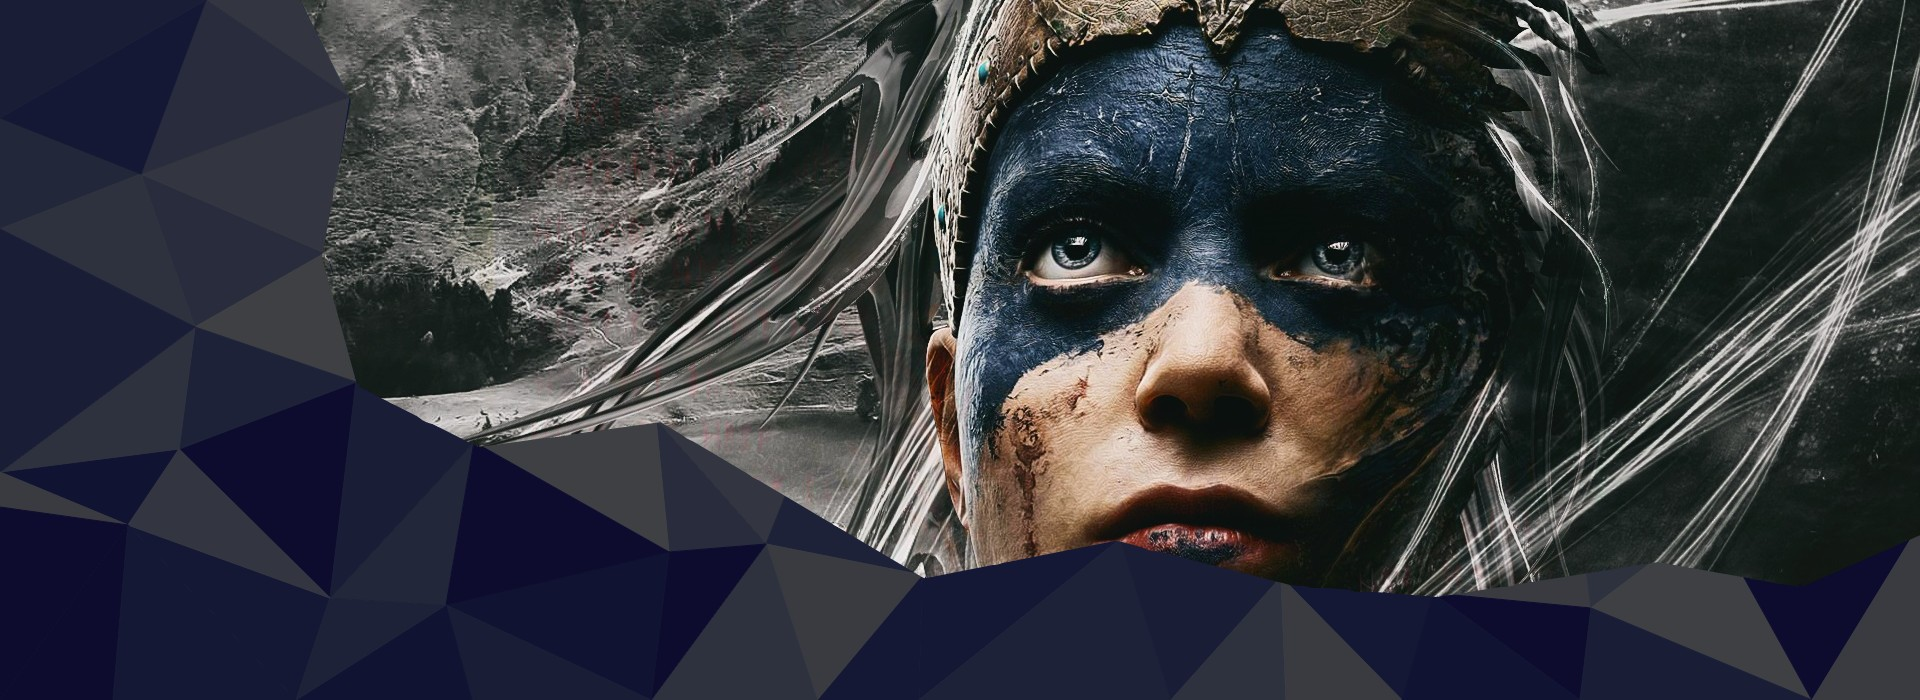
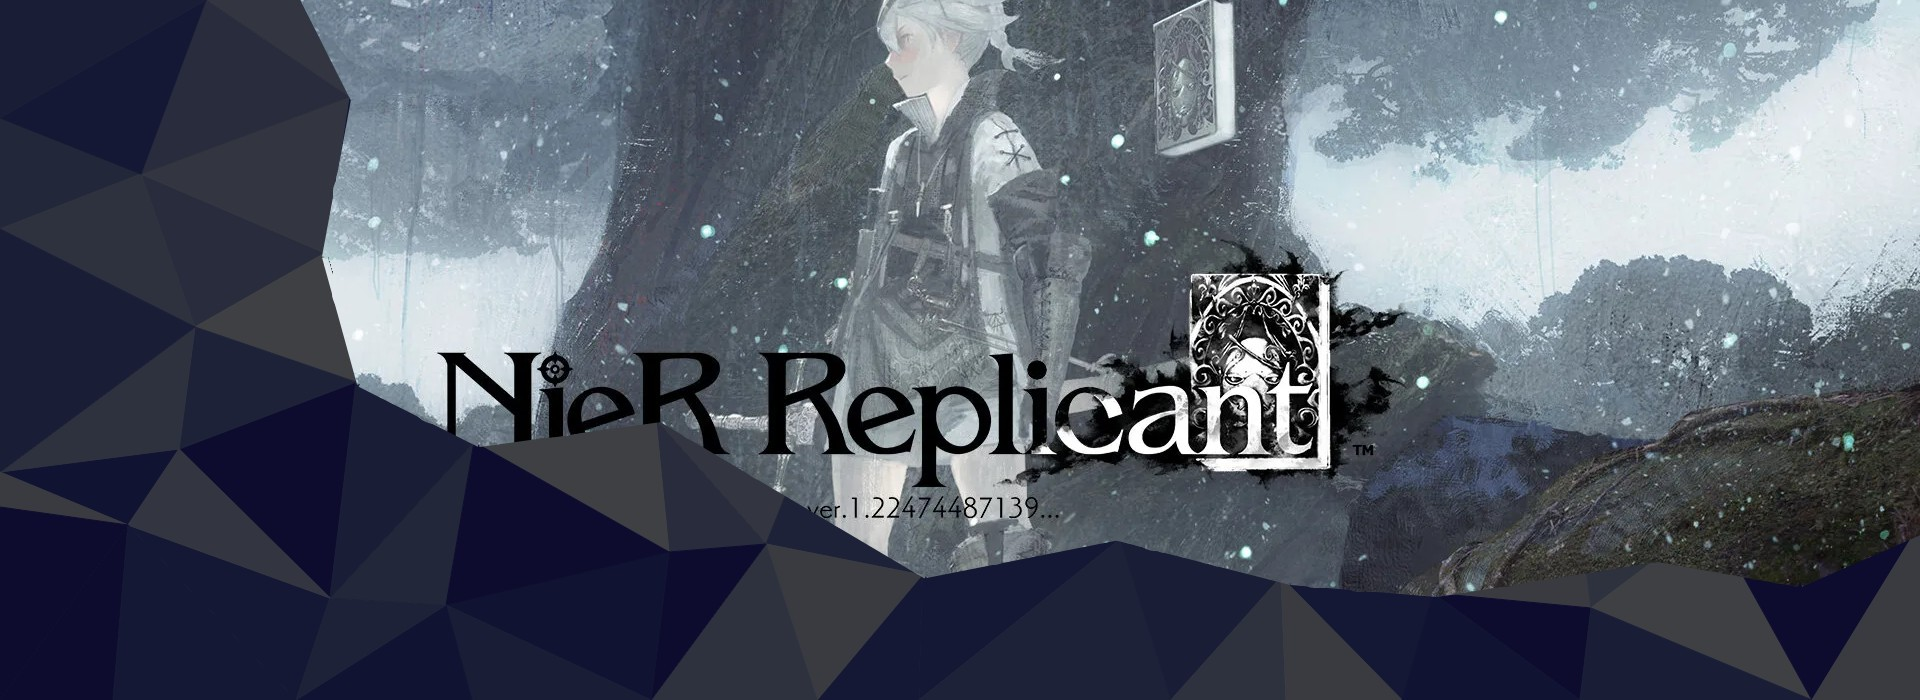
actualizacion 28/4

diff --git a/index.html b/index.html
@@ -61,14 +61,14 @@
                         <div class="carousel-caption d-md-block">
                             <h3 class="text-tipo2">Epic Games</h3>
                             <p class="text-tipo2">Descarga tu juego gratis de esta semana</p>
-                            <a href="https://store.epicgames.com/es-MX/p/amnesia-rebirth" target="_blank"><button class="boton">Consiguelo</button></a>
+                            <a href="https://store.epicgames.com/es-MX/p/just-die-already" target="_blank"><button class="boton">Consiguelo</button></a>
                         </div>
                     </div>
                     <div class="carousel-item mislider">
                         <img src="multimedia/images/slider/slider1.jpg" class="d-block w-100" alt="">
                         <div class="carousel-caption d-md-block">
-                            <h3 class="text-tipo2">Hellblade Senua's Sacrifice</h3>
-                            <p class="text-tipo2">Nuevos videos: Senua en su locura</p>
+                            <h3 class="text-tipo2">NieR Replicant V.122474487139</h3>
+                            <p class="text-tipo2">Nuevos videos: Derrotando jefes finales</p>
                             <a href="pages/guias.html"><button class="boton">Ver videos</button></a>
                         </div>
                     </div>          
@@ -92,8 +92,8 @@
                         <img src="multimedia/images/slider/slider5.jpg" class="d-block w-100" alt="imagen carrusel">
                         <div class="carousel-caption d-md-block">
                             <h3 class="text-tipo2">Recomendacion</h3>
-                            <p class="text-tipo2">The witcher 3: Wild hunt<br>80% off hasta el 2/5</p>
-                            <a href="https://store.steampowered.com/sub/124923/" target="_blank"><button class="boton">Compralo</button></a>
+                            <p class="text-tipo2">Sekiro : Shadow die twice<br>50% off hasta el 9/5</p>
+                            <a href="https://store.steampowered.com/app/814380/Sekiro_Shadows_Die_Twice__GOTY_Edition/" target="_blank"><button class="boton">Compralo</button></a>
                         </div>
                     </div>
                 </div>
@@ -113,31 +113,31 @@
             <h2 class="sub_title text-tipo1">Ultimas noticias</h2>
             <div class="info_1 fondo">
                 <div>                
-                    <h3 class="texto_h3 titulo_info1">Moto GP 22</h3>
-                    <p class="texto_p parrafo_info1">Este 21 de abril se lanza a la venta el que probablemente sea el mejor juego de conduccion de motos. Moto GP 22 se ha enfocado demasiado en el apartado grafico mostrando a los jugadores el mayor grado de realizmo posible. <br> Aqui te dejamos su trailer</p>
+                    <h3 class="texto_h3 titulo_info1">Valorant</h3>
+                    <p class="texto_p parrafo_info1">La nueva agente de VALORANT controla las pesadillas para poder localizar y dañar a los enemigos. Fade tiene como habilidades especiales: Tormento, Apresar, Acechador y Ocaso, todas ellas destinadas a localizar a tu enemigo y causarle declive durante unos instantes. Es en ese momento cuando tú y tu equipo tenéis que coordinaros para atacar a los objetivos</p>
                 </div> 
                 <div> 
-                    <iframe width="560" height="315" src="https://www.youtube.com/embed/kkami8prCjI" title="YouTube video player" frameborder="0" allow="accelerometer; autoplay; clipboard-write; encrypted-media; gyroscope; picture-in-picture" allowfullscreen></iframe>
+                    <iframe width="560" height="315" src="https://www.youtube.com/embed/L7z0UrOgGwY" title="YouTube video player" frameborder="0" allow="accelerometer; autoplay; clipboard-write; encrypted-media; gyroscope; picture-in-picture" allowfullscreen></iframe>
                 </div> 
             </div>
 
             <div class="info_2 fondo">
                 <div class="video_2">
-                    <iframe width="560" height="315" src="https://www.youtube.com/embed/RjwcbF_ohoE" title="YouTube video player" frameborder="0" allow="accelerometer; autoplay; clipboard-write; encrypted-media; gyroscope; picture-in-picture" allowfullscreen></iframe>
+                    <iframe width="560" height="315" src="https://www.youtube.com/embed/-VkO8Vlsf5M" title="YouTube video player" frameborder="0" allow="accelerometer; autoplay; clipboard-write; encrypted-media; gyroscope; picture-in-picture" allowfullscreen></iframe>
                 </div>
                 <div>
-                    <h3 class="texto_h3 titulo_info2">Way of the hunter</h3>
-                    <p class="texto_p parrafo_info2">Si lo tuyo son los juegos de caceria no puedes perderte de este titulo en el cual puedes explorar vastos territorios de caza abiertos en América y Europa, experimenta armas realistas y descubre docenas de especies animales diferentes, solo o junto con un amigo.</p>  
+                    <h3 class="texto_h3 titulo_info2">Age of empire II</h3>
+                    <p class="texto_p parrafo_info2">Esta expansión trae tres civilizaciones jugables de la India a Age of Empires II: Definitive Edition por primera vez, con tres campañas con voz completa y nuevos logros. Las civilizaciones indias brindan una amplia gama de contenido adicional, que incluye nueve unidades nuevas, 15 emocionantes nuevos juegos para un solo jugador.</p>  
                 </div>    
             </div>
 
             <div class="info_1 fondo">
                 <div>                
-                    <h3 class="texto_h3 titulo_info1">Sonic Origins</h3>
-                    <p class="texto_p parrafo_info1">Sonic Origins es anunciado oficialmente: el recopilatorio de las aventuras clásicas de Sonic llegará en junio. Se trata de la mejor forma de conocer las raíces de Sonic en el mundo de los videojuegos con las versiones remasterizadas de cuatro de sus primeros títulos: Sonic the Hedgehog, Sonic the Hedgehog 2, Sonic 3 & Knuckles y Sonic CD. Además, todos ellos ofrecerán la posibilidad de jugar como Sonic, Tails y Knuckles.</p>
+                    <h3 class="texto_h3 titulo_info1">Call of duty</h3>
+                    <p class="texto_p parrafo_info1">Ya esta aqui el nuevo pase de batalla de Call of duty Vanguard / Warzone, prepárate con el Pase de batalla "Armas clasificadas" de la tercera temporada el 27 de abril en Vanguard y Warzone.</p>
                 </div> 
                 <div> 
-                    <iframe width="560" height="315" src="https://www.youtube.com/embed/G5E6GC3ieM0" title="YouTube video player" frameborder="0" allow="accelerometer; autoplay; clipboard-write; encrypted-media; gyroscope; picture-in-picture" allowfullscreen></iframe>
+                    <iframe width="560" height="315" src="https://www.youtube.com/embed/ib0Iw6HhiUg" title="YouTube video player" frameborder="0" allow="accelerometer; autoplay; clipboard-write; encrypted-media; gyroscope; picture-in-picture" allowfullscreen></iframe>
                 </div> 
             </div>
         </section>

diff --git a/css/estilos.css b/css/estilos.css
@@ -218,6 +218,67 @@ html {
   transform: scale(1.05);
 }
 
+/* Nier Replicant Ver 1.22474487139   */
+.galeria_NierReplicant {
+  display: grid;
+  justify-content: center;
+  width: 100%;
+  padding-top: 20px;
+  padding-bottom: 20px;
+  padding-right: 5%;
+  padding-left: 5%;
+  grid-template-columns: repeat(4, 25%);
+  grid-template-rows: repeat(3, 400px);
+}
+.galeria_NierReplicant .img1NierReplicant {
+  grid-column: 1/3;
+  grid-row: 1/2;
+  border: 10px solid #e1faff;
+  background-image: url(../multimedia/images/capturas_de_pantalla/NieR_Replicant_1.jpg);
+  background-size: cover;
+  background-position: center;
+}
+.galeria_NierReplicant .img2NierReplicant {
+  grid-column: 3/5;
+  grid-row: 1/2;
+  border: 10px solid #e1faff;
+  background-image: url(../multimedia/images/capturas_de_pantalla/NieR_Replicant_2.jpg);
+  background-size: cover;
+  background-position: center;
+}
+.galeria_NierReplicant .img3NierReplicant {
+  grid-column: 1/2;
+  grid-row: 2/3;
+  border: 10px solid #e1faff;
+  background-image: url(../multimedia/images/capturas_de_pantalla/NieR_Replicant_3.jpg);
+  background-size: cover;
+  background-position: center;
+}
+.galeria_NierReplicant .img4NierReplicant {
+  grid-column: 1/4;
+  grid-row: 3/4;
+  border: 10px solid #e1faff;
+  background-image: url(../multimedia/images/capturas_de_pantalla/NieR_Replicant_4.jpg);
+  background-size: cover;
+  background-position: center;
+}
+.galeria_NierReplicant .img5NierReplicant {
+  grid-column: 2/4;
+  grid-row: 2/3;
+  border: 10px solid #e1faff;
+  background-image: url(../multimedia/images/capturas_de_pantalla/NieR_Replicant_5.jpg);
+  background-size: cover;
+  background-position: center;
+}
+.galeria_NierReplicant .img6NierReplicant {
+  grid-column: 4/5;
+  grid-row: 2/4;
+  border: 10px solid #e1faff;
+  background-image: url(../multimedia/images/capturas_de_pantalla/NieR_Replicant_6.jpg);
+  background-size: cover;
+  background-position: center;
+}
+
 /* HELLBLADE SENUA'S SACRIFICE   */
 .galeria_hellblade {
   display: grid;
@@ -748,6 +809,23 @@ html {
   }
 
   /* ---------------  CAPTURAS  -----------*/
+  .galeria_NierReplicant {
+    display: grid;
+    justify-content: space-between;
+    grid-template-columns: repeat(3, 33%);
+    grid-template-rows: repeat(3, 400px);
+  }
+  .galeria_NierReplicant .img2NierReplicant {
+    grid-column: 3/4;
+  }
+  .galeria_NierReplicant .img4NierReplicant {
+    grid-column: 1/3;
+  }
+  .galeria_NierReplicant .img6NierReplicant {
+    grid-column: 3/4;
+    grid-row: 3/4;
+  }
+
   .galeria_hellblade {
     display: grid;
     justify-content: space-between;
@@ -940,6 +1018,42 @@ html {
   }
 
   /* ---------------  CAPTURAS  ----------- */
+  .galeria_NierReplicant {
+    display: grid;
+    justify-content: center;
+    width: 100%;
+    padding-top: 20px;
+    padding-bottom: 20px;
+    padding-right: 5%;
+    padding-left: 5%;
+    grid-template-columns: repeat(1, 100%);
+    grid-template-rows: repeat(6, 250px);
+  }
+  .galeria_NierReplicant .img1NierReplicant {
+    grid-column: 1/2;
+    grid-row: 1/2;
+  }
+  .galeria_NierReplicant .img2NierReplicant {
+    grid-column: 1/2;
+    grid-row: 2/3;
+  }
+  .galeria_NierReplicant .img3NierReplicant {
+    grid-column: 1/2;
+    grid-row: 3/4;
+  }
+  .galeria_NierReplicant .img4NierReplicant {
+    grid-column: 1/2;
+    grid-row: 4/5;
+  }
+  .galeria_NierReplicant .img5NierReplicant {
+    grid-column: 1/2;
+    grid-row: 5/6;
+  }
+  .galeria_NierReplicant .img6NierReplicant {
+    grid-column: 1/2;
+    grid-row: 6/7;
+  }
+
   .galeria_hellblade {
     display: grid;
     justify-content: center;

diff --git a/pages/guias.html b/pages/guias.html
@@ -50,6 +50,31 @@
         </div>
         <section class="guide">
             <div>
+                <h2 class="nombre_juego">NieR Replicant Ver 1.22474487139</h2>
+                <div class="guideGalery">
+                    <div>
+                        <h3 class="texto_h3">Enfrentandonos a Hansel & Gretel</h3>
+                        <iframe width="460" height="275" src="https://www.youtube.com/embed/fjMV-ME12N4" title="YouTube video player" frameborder="0" allow="accelerometer; autoplay; clipboard-write; encrypted-media; gyroscope; picture-in-picture" allowfullscreen></iframe>
+                    </div>
+                    <div>
+                        <h3 class="texto_h3">1er encuentro con Hook y Kaine</h3>
+                        <iframe width="460" height="275" src="https://www.youtube.com/embed/fkf0_IFEQuk" title="YouTube video player" frameborder="0" allow="accelerometer; autoplay; clipboard-write; encrypted-media; gyroscope; picture-in-picture" allowfullscreen></iframe>
+                    </div>
+                    <div>
+                        <h3 class="texto_h3">Enfrentandonos a Geppetto</h3>
+                        <iframe width="460" height="275" src="https://www.youtube.com/embed/2vmffXKMiQs" title="YouTube video player" frameborder="0" allow="accelerometer; autoplay; clipboard-write; encrypted-media; gyroscope; picture-in-picture" allowfullscreen></iframe>
+                    </div>
+                    <div>
+                        <h3 class="texto_h3">Enfrentandonos  a Shahriyar</h3>
+                        <iframe width="460" height="275" src="https://www.youtube.com/embed/G7BzPtnuyao" title="YouTube video player" frameborder="0" allow="accelerometer; autoplay; clipboard-write; encrypted-media; gyroscope; picture-in-picture" allowfullscreen></iframe>
+                    </div>
+                    <div>
+                        <h3 class="texto_h3">Enfrentandonos a Grimoire rubrum</h3>
+                        <iframe width="460" height="275" src="https://www.youtube.com/embed/-l-5K0Pr-Hk" title="YouTube video player" frameborder="0" allow="accelerometer; autoplay; clipboard-write; encrypted-media; gyroscope; picture-in-picture" allowfullscreen></iframe>
+                    </div>
+                </div>
+            </div> 
+            <div>
                 <h2 class="nombre_juego">Hellblade Senua's Sacrifice</h2>
                 <div class="guideGalery">
                     <div>
@@ -63,6 +88,10 @@
                     <div>
                         <h3 class="texto_h3">Senua se enfrenta a Garm</h3>
                         <iframe width="460" height="275" src="https://www.youtube.com/embed/0EM56of_NRs" title="YouTube video player" frameborder="0" allow="accelerometer; autoplay; clipboard-write; encrypted-media; gyroscope; picture-in-picture" allowfullscreen></iframe>
+                    </div>
+                    <div>
+                        <h3 class="texto_h3">Senua se enfrenta a Hela</h3>
+                        <iframe width="460" height="275" src="https://www.youtube.com/embed/zgvY5BPmkT8" title="YouTube video player" frameborder="0" allow="accelerometer; autoplay; clipboard-write; encrypted-media; gyroscope; picture-in-picture" allowfullscreen></iframe>
                     </div>
                 </div>
             </div>

diff --git a/sass/base/_main.scss b/sass/base/_main.scss
@@ -228,6 +228,64 @@ html{
     }    
 }
 
+        /* Nier Replicant Ver 1.22474487139   */
+
+.galeria_NierReplicant{
+    display: grid;
+    justify-content: center;
+    @include galery_cap(100%, 20px, 20px, 5%, 5%);
+    grid-template-columns: repeat(4, 25%);
+    grid-template-rows: repeat(3, 400px);
+    .img1NierReplicant{
+        grid-column: 1/3;
+        grid-row: 1/2;
+        border: 10px solid $color3;
+        background-image: url(../multimedia/images/capturas_de_pantalla/NieR_Replicant_1.jpg);
+        background-size: cover;
+        background-position: center;
+    }
+    .img2NierReplicant{
+        grid-column: 3/5;
+        grid-row: 1/2;
+        border: 10px solid $color3;
+        background-image: url(../multimedia/images/capturas_de_pantalla/NieR_Replicant_2.jpg);
+        background-size: cover;
+        background-position: center;
+    }
+    .img3NierReplicant{
+        grid-column: 1/2;
+        grid-row: 2/3;
+        border: 10px solid $color3;
+        background-image: url(../multimedia/images/capturas_de_pantalla/NieR_Replicant_3.jpg);
+        background-size: cover;
+        background-position: center;
+    }
+    .img4NierReplicant{
+        grid-column: 1/4;
+        grid-row: 3/4;
+        border: 10px solid $color3;
+        background-image: url(../multimedia/images/capturas_de_pantalla/NieR_Replicant_4.jpg);
+        background-size: cover;
+        background-position: center;
+    }
+    .img5NierReplicant{
+        grid-column: 2/4;
+        grid-row: 2/3;
+        border: 10px solid $color3;
+        background-image: url(../multimedia/images/capturas_de_pantalla/NieR_Replicant_5.jpg);
+        background-size: cover;
+        background-position: center;
+    }
+    .img6NierReplicant{
+        grid-column: 4/5;
+        grid-row: 2/4;
+        border: 10px solid $color3;
+        background-image: url(../multimedia/images/capturas_de_pantalla/NieR_Replicant_6.jpg);
+        background-size: cover;
+        background-position: center;
+    }
+}
+
         /* HELLBLADE SENUA'S SACRIFICE   */
 
 .galeria_hellblade{

diff --git a/sass/componentes/_mediaQueris0-719.scss b/sass/componentes/_mediaQueris0-719.scss
@@ -118,6 +118,38 @@
 
     /* ---------------  CAPTURAS  ----------- */
 
+    .galeria_NierReplicant{
+        display: grid;
+        justify-content: center;
+        @include galery_cap(100%, 20px, 20px, 5%, 5%);
+        grid-template-columns: repeat(1, 100%);
+        grid-template-rows: repeat(6, 250px);
+        .img1NierReplicant{
+            grid-column: 1/2;
+            grid-row: 1/2;
+        }
+        .img2NierReplicant{
+            grid-column: 1/2;
+            grid-row: 2/3;
+        }
+        .img3NierReplicant{
+            grid-column: 1/2;
+            grid-row: 3/4;
+        }
+        .img4NierReplicant{
+            grid-column: 1/2;
+            grid-row: 4/5;
+        }
+        .img5NierReplicant{
+            grid-column: 1/2;
+            grid-row: 5/6;
+        }
+        .img6NierReplicant{
+            grid-column: 1/2;
+            grid-row: 6/7;
+        }
+    }
+
     .galeria_hellblade{
         display: grid;
         justify-content: center;

diff --git a/pages/capturas.html b/pages/capturas.html
@@ -45,6 +45,17 @@
         <h1 class="title">Capturas de pantalla IN-GAME</h1>
         <!-- Inicio seccion galerias -->
         <section>
+            <h2 class="nombre_juego">Nier Replicant Ver 1.22474487139</h2>
+            <div class="galeria_NierReplicant galeria">
+                <div class="img1NierReplicant"></div>                    
+                <div class="img2NierReplicant"></div>
+                <div class="img3NierReplicant"></div>
+                <div class="img4NierReplicant"></div>
+                <div class="img5NierReplicant"></div>
+                <div class="img6NierReplicant"></div>
+            </div>
+        </section>
+        <section>
             <h2 class="nombre_juego">Hellblade Senua's sacrifice</h2>
             <div class="galeria_hellblade galeria">
                 <div class="img1hellblade"></div>                    

diff --git a/sass/componentes/_mediaQueris720-1280.scss b/sass/componentes/_mediaQueris720-1280.scss
@@ -78,6 +78,23 @@
 
     /* ---------------  CAPTURAS  -----------*/
 
+    .galeria_NierReplicant{
+        display: grid;
+        justify-content: space-between;
+        grid-template-columns: repeat(3, 33%);
+        grid-template-rows: repeat(3, 400px);
+        .img2NierReplicant{
+            grid-column: 3/4;
+        }
+        .img4NierReplicant{
+            grid-column: 1/3;
+        }
+        .img6NierReplicant{
+            grid-column: 3/4;
+            grid-row: 3/4;
+        }
+    }
+
     .galeria_hellblade{
         display: grid;
         justify-content: space-between;
